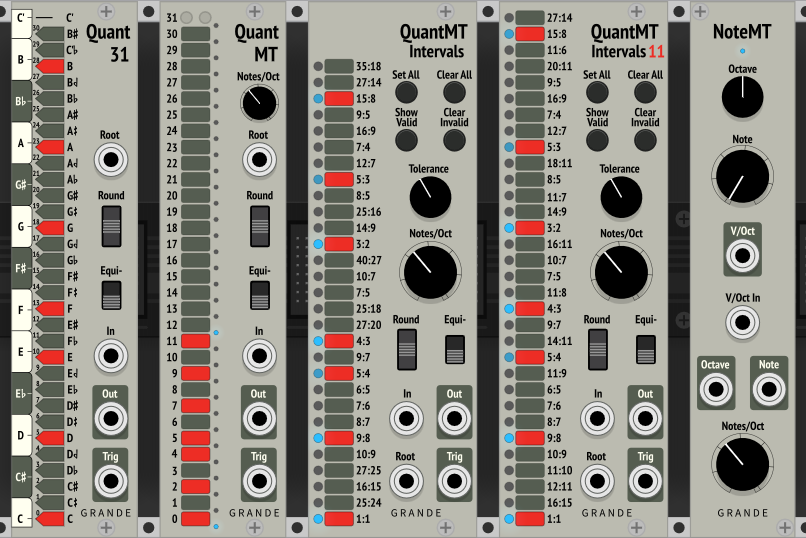
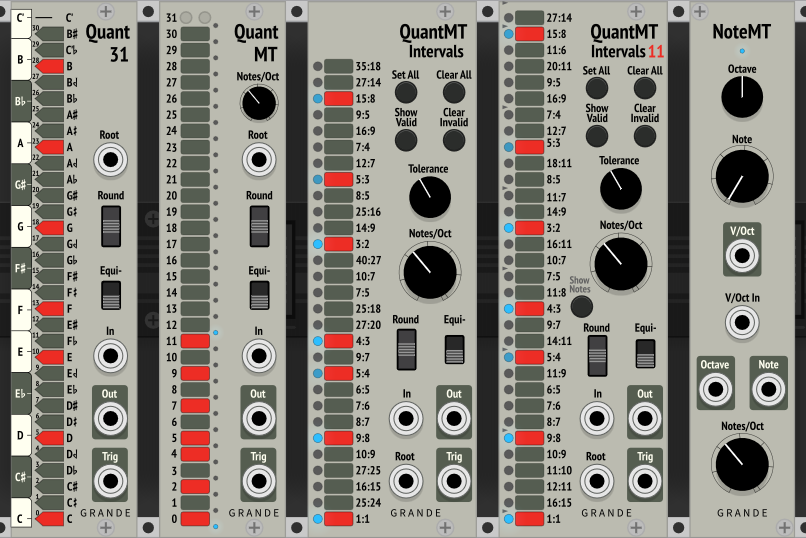
Add Show Notes button to QuantMTInt11.

diff --git a/src/QuantMTInt11.cpp b/src/QuantMTInt11.cpp
@@ -12,6 +12,7 @@ struct QuantMTInt11 : Module {
 		CLEAR_ALL_PARAM,
 		SEL_ENABLED_PARAM,
 		SHOW_ALLOWED_PARAM,
+		SHOW_NOTES_PARAM,
 		NUM_PARAMS
 	};
 	enum InputIds {
@@ -71,6 +72,7 @@ struct QuantMTInt11 : Module {
 		configParam(CLEAR_ALL_PARAM, 0.0, 1.0, 0.0, "Clear All", "");
 		configParam(SHOW_ALLOWED_PARAM, 0.0, 1.0, 0.0, "Show Valid", "");
 		configParam(SEL_ENABLED_PARAM, 0.0, 1.0, 0.0, "Clear Invalid", "");
+		configParam(SHOW_NOTES_PARAM, 0.0, 1.0, 0.0, "Show Notes", "");
 	}
 
 	dsp::PulseGenerator pulseGenerators[16];
@@ -132,6 +134,7 @@ struct QuantMTInt11 : Module {
 			int clear_all = clamp((int)(params[CLEAR_ALL_PARAM].getValue()), 0, 1);
 			int sel_enabled = clamp((int)(params[SEL_ENABLED_PARAM].getValue()), 0, 1);
 			int show_allowed = clamp((int)(params[SHOW_ALLOWED_PARAM].getValue()), 0, 1);
+			int show_notes = clamp((int)(params[SHOW_NOTES_PARAM].getValue()), 0, 1);
 
 			// initialize
 			int note_used[32];  // include octave
@@ -230,6 +233,14 @@ struct QuantMTInt11 : Module {
 					else
 						lights[INTERVAL_LIGHTS + i].setBrightness(0.f);
 				}
+			}
+			// show actual notes selected
+			else if (show_notes == 1) {
+				int n;
+				for (n = 0; n < equal_temp; n++)
+					lights[INTERVAL_LIGHTS + n].setBrightness((note_used[n] >= 0) ? 1 : 0);
+				for ( ; n < 32; n++)
+					lights[INTERVAL_LIGHTS + n].setBrightness(0);
 			}
 			else {
 				// show normal lights, which give error for selected intervals
@@ -382,17 +393,19 @@ struct QuantMTInt11Widget : ModuleWidget {
 		addChild(createWidget<ScrewSilver>(Vec(box.size.x - 2 * RACK_GRID_WIDTH, RACK_GRID_HEIGHT - RACK_GRID_WIDTH)));
 
 
-		addParam(createParam<TL1105Momentary>(mm2px(Vec(20.93, 19.17)), module, QuantMTInt11::SEL_ALL_PARAM));
-		addParam(createParam<TL1105Momentary>(mm2px(Vec(32.43, 19.17)), module, QuantMTInt11::CLEAR_ALL_PARAM));
+		addParam(createParam<TL1105Momentary>(mm2px(Vec(20.93, 18.17)), module, QuantMTInt11::SEL_ALL_PARAM));
+		addParam(createParam<TL1105Momentary>(mm2px(Vec(32.43, 18.17)), module, QuantMTInt11::CLEAR_ALL_PARAM));
 
-		addParam(createParam<TL1105Momentary>(mm2px(Vec(20.93, 30.67)), module, QuantMTInt11::SHOW_ALLOWED_PARAM));
-		addParam(createParam<TL1105Momentary>(mm2px(Vec(32.43, 30.67)), module, QuantMTInt11::SEL_ENABLED_PARAM));
+		addParam(createParam<TL1105Momentary>(mm2px(Vec(20.93, 29.67)), module, QuantMTInt11::SHOW_ALLOWED_PARAM));
+		addParam(createParam<TL1105Momentary>(mm2px(Vec(32.43, 29.67)), module, QuantMTInt11::SEL_ENABLED_PARAM));
 
-		addParam(createParamCentered<RoundBlackKnob>(mm2px(Vec(29.39, 47.00)), module, QuantMTInt11::TOLERANCE_PARAM));
-		addParam(createParamCentered<RoundLargeRotarySwitch>(mm2px(Vec(29.39, 65.00)), module, QuantMTInt11::SIZE_PARAM));
+		addParam(createParamCentered<RoundBlackKnob>(mm2px(Vec(29.39, 45.00)), module, QuantMTInt11::TOLERANCE_PARAM));
+		addParam(createParamCentered<RoundLargeRotarySwitch>(mm2px(Vec(29.39, 63.00)), module, QuantMTInt11::SIZE_PARAM));
 
-		addParam(createParam<CKSSThree>(mm2px(Vec(21.39, 78.50)), module, QuantMTInt11::ROUNDING_PARAM));
-		addParam(createParam<CKSS>(mm2px(Vec(32.89, 80.00)), module, QuantMTInt11::EQUI_PARAM));
+		addParam(createParam<TL1105Momentary>(mm2px(Vec(17.30, 70.50)), module, QuantMTInt11::SHOW_NOTES_PARAM));
+
+		addParam(createParam<CKSSThree>(mm2px(Vec(21.39, 80.00)), module, QuantMTInt11::ROUNDING_PARAM));
+		addParam(createParam<CKSS>(mm2px(Vec(32.89, 81.00)), module, QuantMTInt11::EQUI_PARAM));
 
 		addInput(createInputCentered<PJ301MPort>(mm2px(Vec(23.64, 100.0)), module, QuantMTInt11::CV_IN_INPUT));
 		addOutput(createOutputCentered<PJ301MPort>(mm2px(Vec(35.14, 100.0)), module, QuantMTInt11::CV_OUT_OUTPUT));

diff --git a/README.md b/README.md
@@ -165,6 +165,10 @@ QuantMTInt11 (QuantMTIntervals 11)
 
 A variation of QuantMTIntervals (above), except that it's pitch intervals are based on the 11-Limit Tonality Diamond. However, I included three additional intervals: 16:15 (minor 2nd), 15:8 (major 7th), and 27:14 (Septimal major 7th).
 
+**New:** Show Notes button has been added to show the actual notes being used. Useful for understanding what this quantizer is doing, and allows converting its results to another quantizer.
+
+*This feature will be added to QuantMTIntervals once the number of intervals in that module have been increased to 31.*
+
 [Link to Wikipedia article on Tonality Diamonds](https://en.wikipedia.org/wiki/Tonality_diamond)
 
 
